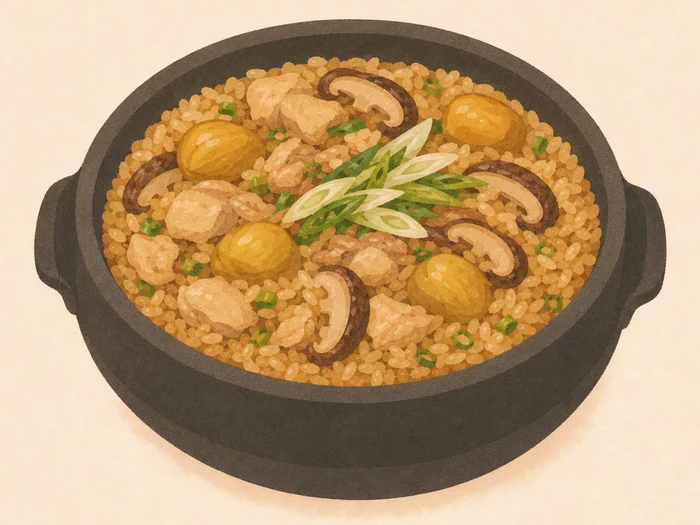
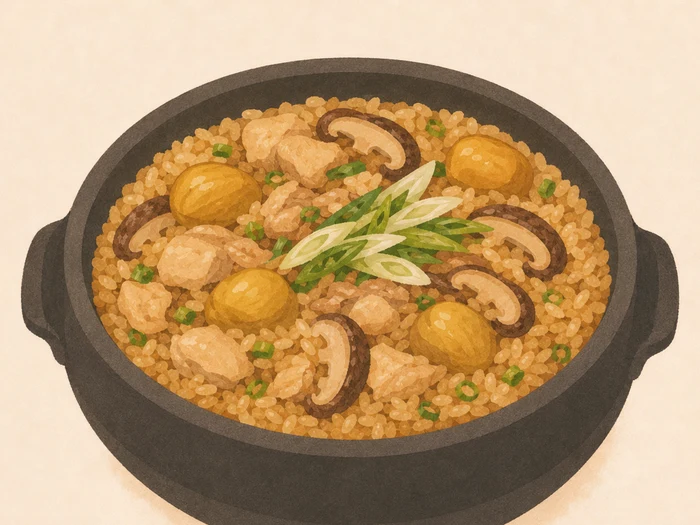
栗子飯放大到跟大醬湯同鍋寬並往下坐；馬鈴薯餅改用凹陷圈取景
油香栗子雞腿燜飯  鍋寬 90%→94%（＝大醬湯）· 上距 4%→11%
  澱粉回魂脆邊馬鈴薯餅  凹陷圈 90%→97%

⚠ 鍋物放大時，縮放基準要量「深色鍋本體」（門檻 >120），不能用主體外框 ——
外框會把鍋子的淡陰影一起框進去，照它縮放會越切越小（第一版就是這樣，
切出來比原本還小）。

ASSETS 65 → 66

diff --git a/index.html b/index.html
@@ -783,7 +783,7 @@ ol.steps li::before {
    ══════════════════════════════════════════════ */
 
 /* 素材版本。換過圖就 bump 一次，否則瀏覽器會一直用舊的快取 */
-const ASSETS = '65';
+const ASSETS = '66';
 const asset = p => p + '?v=' + ASSETS;
 
 const $ = (s, el = document) => el.querySelector(s);
